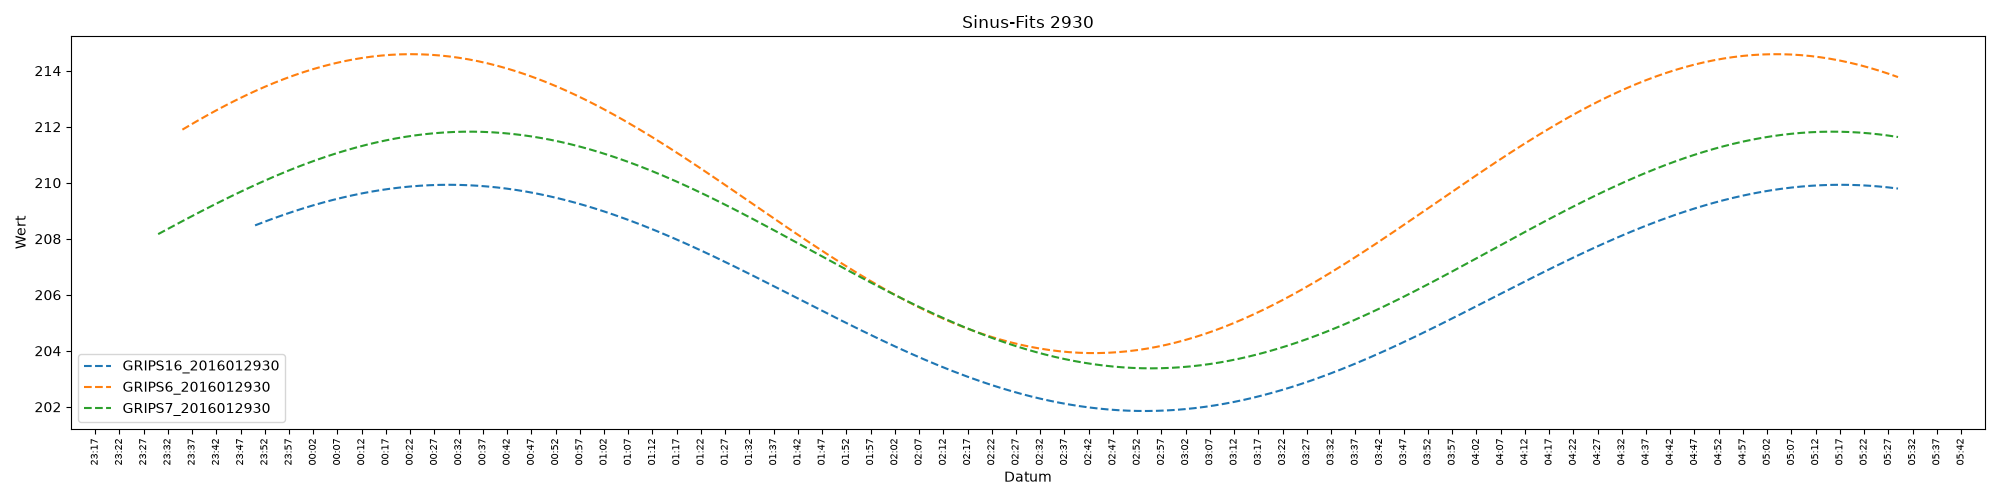
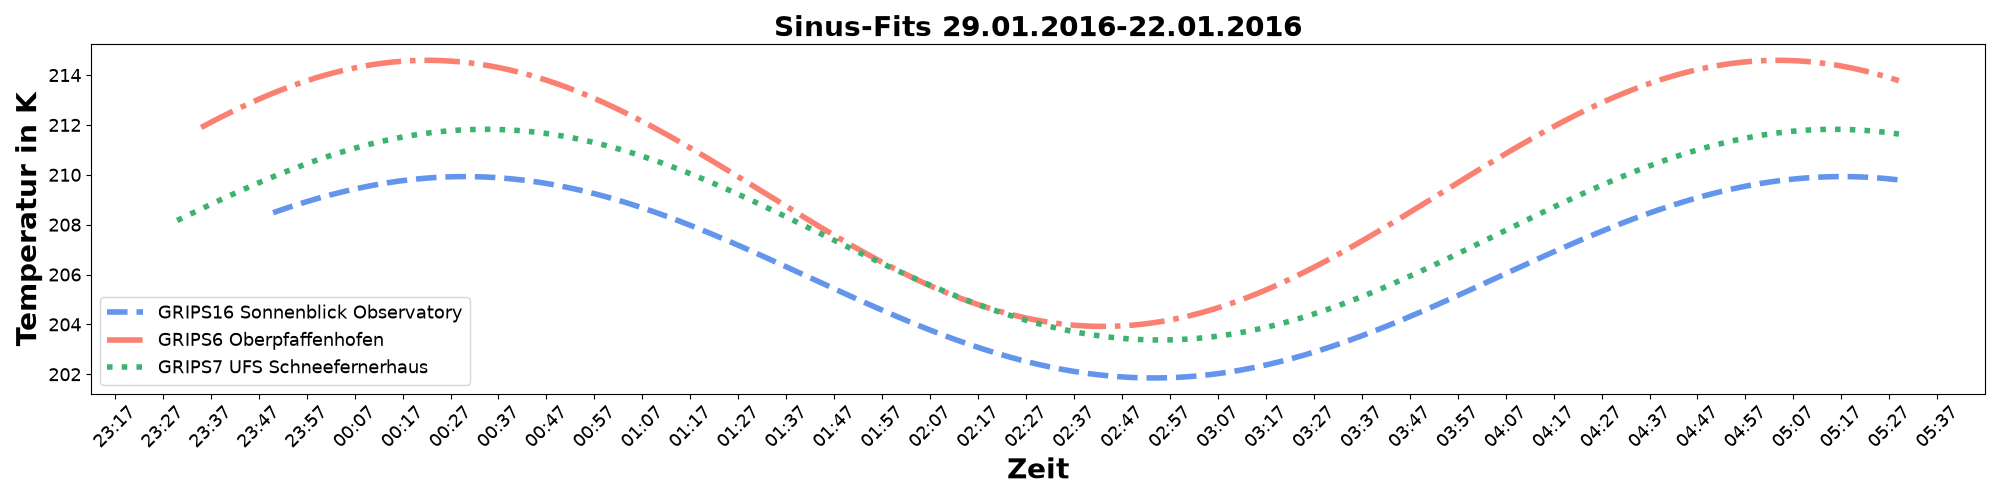
grafiken sind jetzt schön

diff --git a/exploration.py b/exploration.py
@@ -5,6 +5,7 @@ import matplotlib.pyplot as plt
 import matplotlib.dates as mdates
 import numpy as np
 from scipy.optimize import curve_fit
+from scipy.signal import argrelextrema
 
 # Unterordner mit den CSV-Dateien
 input_dir = Path("03_LueckenloseDaten")
@@ -28,6 +29,18 @@ frequency_guesses = {
     "GRIPS6_2016012930": 1 / 16200,
     "GRIPS7_2016012930": 1 / 16200,
     "GRIPS16_2016012930": 1 / 16200,
+}
+station_list={
+    "GRIPS6_2016012122": 'GRIPS6 Oberpfaffenhofen',
+    "GRIPS7_2016012122": 'GRIPS7 UFS Schneefernerhaus',
+    "GRIPS16_2016012122": 'GRIPS16 Sonnenblick Observatory',
+    "GRIPS6_2016012930": 'GRIPS6 Oberpfaffenhofen',
+    "GRIPS7_2016012930": 'GRIPS7 UFS Schneefernerhaus',
+    "GRIPS16_2016012930": 'GRIPS16 Sonnenblick Observatory', 
+}
+date_list={
+    '2122': '21.01.2016 - 22.01.2016',
+    '2930': '29.01.2016-22.01.2016',
 }
 def sine_func(t, amplitude, frequency, phase, offset):
     """Return a sine curve evaluated at t with the given parameters."""
@@ -80,8 +93,13 @@ groups = ["2122", "2930"]
 
 for group in groups:
     fig, ax = plt.subplots(figsize=(20, 5))
+    linestyles = ["--", "-.", ":"]
+    colors = ["#6495ED", "#FA8072", "mediumseagreen"]
 
-    for csv_path in sorted(input_dir.glob(f"*{group}*.csv")):
+    for i, csv_path in enumerate(sorted(input_dir.glob(f"*{group}*.csv"))):
+        station_name = station_list.get(csv_path.stem, csv_path.stem)
+        date_name= date_list.get(group, group)
+
         df = pd.read_csv(csv_path, parse_dates=["Zulu"])
         df = df.set_index("Zulu")
 
@@ -107,16 +125,17 @@ for group in groups:
         params, _ = curve_fit(sine_func, t_seconds, y_values, p0=initial_guess, maxfev=10000)
 
         fit_values = sine_func(t_seconds, *params)
-        ax.plot(fit_df.index, fit_values, label=csv_path.stem, linestyle="--")
+        ax.plot(fit_df.index, fit_values, label=station_name, linewidth=4, linestyle=linestyles[i % len(linestyles)], color=colors[i % len(colors)])
 
-    ax.xaxis.set_major_locator(mdates.MinuteLocator(interval=5))
+    ax.xaxis.set_major_locator(mdates.MinuteLocator(interval=10))
     ax.xaxis.set_major_formatter(mdates.DateFormatter("%H:%M"))
-    plt.xticks(rotation=90, fontsize=7)
+    plt.xticks(rotation=45, fontsize=13)
+    ax.tick_params(axis="y", labelsize=13)
 
-    ax.set_xlabel("Datum")
-    ax.set_ylabel("Wert")
-    ax.set_title(f"Sinus-Fits {group}")
-    ax.legend()
+    ax.set_xlabel("Zeit", fontsize=20, fontweight='bold')
+    ax.set_ylabel("Temperatur in K", fontsize=20, fontweight='bold')
+    ax.set_title(f"Sinus-Fits {date_name}", fontsize=20, fontweight='bold')
+    ax.legend(fontsize=13)
     plt.tight_layout()
 
     output_path = output_dir / f"sinus_fits_{group}.png"
@@ -127,8 +146,9 @@ stations = ["GRIPS6", "GRIPS7", "GRIPS16"]
 groups = ["2122", "2930"]
 
 for group in groups:
+    date_name= date_list.get(group, group)
     fig, axes = plt.subplots(len(stations), 1, figsize=(20, 12), sharex=True)
-    fig.suptitle(f"Sinus-Fits {group}", fontsize=20, fontweight='bold')
+    fig.suptitle(f"Sinus-Fits {date_name}", fontsize=20, fontweight='bold')
 
     for row, station in enumerate(stations):
         ax = axes[row]
@@ -138,6 +158,8 @@ for group in groups:
             continue
 
         csv_path = matches[0]
+        station_name = station_list.get(csv_path.stem, csv_path.stem)
+        
         df = pd.read_csv(csv_path, parse_dates=["Zulu"])
         df = df.set_index("Zulu")
 
@@ -159,16 +181,25 @@ for group in groups:
 
                 params, _ = curve_fit(sine_func, t_seconds, y_values, p0=initial_guess, maxfev=10000)
 
+                amplitude, frequency, phase, offset = params
+                print(f"{csv_path.stem}: berechnete Frequenz = {frequency:.6f} Hz")
+
                 fit_values = sine_func(t_seconds, *params)
-                ax.plot(fit_df.index, fit_values, label="Sinus-Fit", linestyle="--", color='salmon')
+                maxima_idx = argrelextrema(fit_values, np.greater)[0]
+                minima_idx = argrelextrema(fit_values, np.less)[0]
+
+                print(f"{csv_path.stem}:")
+                print(f"  Maxima bei: {fit_df.index[maxima_idx].strftime('%H:%M:%S').tolist()}")
+                print(f"  Minima bei: {fit_df.index[minima_idx].strftime('%H:%M:%S').tolist()}")
+                ax.plot(fit_df.index, fit_values, label="Sinus-Fit", linewidth=4, linestyle="--", color='salmon')
 
         ax.xaxis.set_major_locator(mdates.MinuteLocator(interval=10))
         ax.xaxis.set_major_formatter(mdates.DateFormatter("%H:%M"))
         ax.tick_params(axis="x", rotation=45, labelsize=13)
         ax.tick_params(axis="y", labelsize=13)
 
-        ax.set_title(f'{csv_path.stem[0:6]}', fontsize=20, fontweight='bold')
-        ax.set_ylabel("Wert", fontsize=20, fontweight='bold')
+        ax.set_title(station_name, fontsize=20, fontweight='bold')
+        ax.set_ylabel("Temperatur in K", fontsize=20, fontweight='bold')
 
     plt.tight_layout()
 

diff --git a/fft.py b/fft.py
@@ -16,6 +16,20 @@ fit_start_times = {
     "GRIPS16_2016012930": "23:50:00",
 }
 
+station_list = {
+    "GRIPS6_2016012122": 'GRIPS6 Oberpfaffenhofen',
+    "GRIPS7_2016012122": 'GRIPS7 UFS Schneefernerhaus',
+    "GRIPS16_2016012122": 'GRIPS16 Sonnenblick Observatory',
+    "GRIPS6_2016012930": 'GRIPS6 Oberpfaffenhofen',
+    "GRIPS7_2016012930": 'GRIPS7 UFS Schneefernerhaus',
+    "GRIPS16_2016012930": 'GRIPS16 Sonnenblick Observatory',
+}
+
+date_list = {
+    '2122': '21.01.2016 - 22.01.2016',
+    '2930': '29.01.2016-22.01.2016',
+}
+
 # Ordner fuer die gespeicherten Plots (wird bei Bedarf angelegt)
 output_dir = Path("plots_fft")
 output_dir.mkdir(exist_ok=True)
@@ -43,13 +57,28 @@ for csv_path in input_dir.glob("*.csv"):
     fft_freqs = np.fft.rfftfreq(n, d=dt_seconds)
     amplitudes = np.abs(fft_values) / n
 
-    fig, ax = plt.subplots(figsize=(10, 5))
-    ax.plot(fft_freqs, amplitudes)
+    # Stationsname und Datum fuer den Titel zusammenstellen
+    station_name = station_list.get(csv_path.stem, csv_path.stem)
+    date_key = csv_path.stem[-4:]
+    date_range = date_list.get(date_key, "")
+    suptitle = f"{station_name} ({date_range})" if date_range else station_name
 
-    ax.set_xlabel("Frequenz [Hz]")
-    ax.set_ylabel("Amplitude")
-    ax.set_xlim(0, 0.00006)
-    ax.set_title(csv_path.stem)
+    fig, (ax_full, ax_zoom) = plt.subplots(1, 2, figsize=(14, 5))
+
+    ax_full.plot(fft_freqs, amplitudes)
+    ax_full.set_xlabel("Frequenz [Hz]", fontsize=15, fontweight='bold')
+    ax_full.set_ylabel("Amplitude [K]", fontsize=15, fontweight='bold')
+    ax_full.set_title("gesamter Bereich", fontsize=15, fontweight='bold')
+    ax_full.tick_params(axis="both", labelsize=13)
+
+    ax_zoom.plot(fft_freqs, amplitudes)
+    ax_zoom.set_xlabel("Frequenz [Hz]", fontsize=15, fontweight='bold')
+    ax_zoom.set_ylabel("Amplitude [K]", fontsize=15, fontweight='bold')
+    ax_zoom.set_xlim(0, 0.0001)
+    ax_zoom.set_title("Bereich 0-0.0001 Hz", fontsize=15, fontweight='bold')
+    ax_zoom.tick_params(axis="both", labelsize=13)
+
+    fig.suptitle(suptitle, fontsize=20, fontweight="bold")
     plt.tight_layout()
 
     output_path = output_dir / f"{csv_path.stem}_fft.png"
